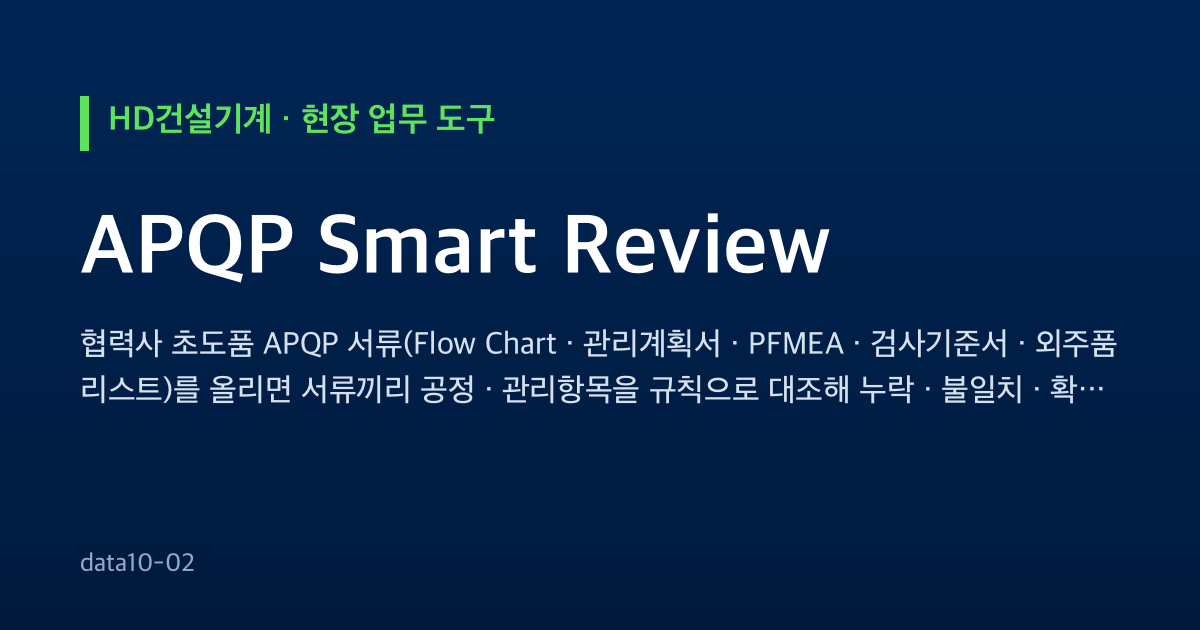
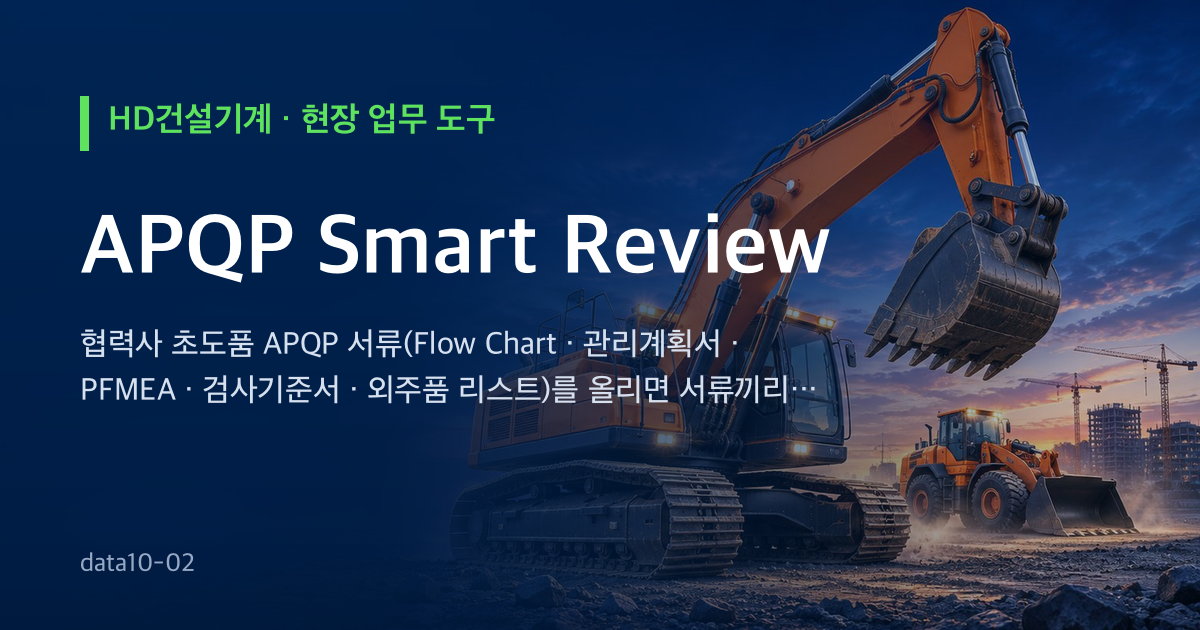
개발 자료 전체 공개 — 개발일지 · 기획서 원문 · 시험 · SQL · 스크립트 · README (수강생 내려받기용)

diff --git a/index.html b/index.html
@@ -12,9 +12,16 @@
   <meta property="og:description" content="협력사 초도품 APQP 서류(Flow Chart · 관리계획서 · PFMEA · 검사기준서 · 외주품 리스트)를 올리면 서류끼리 공정 · 관리항목을 규칙으로 대조해 누락 · 불일치 · 확인 필요 목록과 승인 의견 제안을 내고, 승인 검토 보고서와 재제출 비교까지 만드는">
   <meta property="og:url" content="https://data10-02.jobability.co.kr/">
   <meta property="og:image" content="https://data10-02.jobability.co.kr/og-image.png">
+  <meta property="og:image:secure_url" content="https://data10-02.jobability.co.kr/og-image.png">
+  <meta property="og:image:type" content="image/png">
   <meta property="og:image:width" content="1200">
   <meta property="og:image:height" content="630">
+  <meta property="og:image:alt" content="HD건설기계 · APQP Smart Review">
+  <meta property="og:locale" content="ko_KR">
   <meta name="twitter:card" content="summary_large_image">
+  <meta name="twitter:title" content="HD건설기계 · APQP Smart Review">
+  <meta name="twitter:description" content="협력사 초도품 APQP 서류(Flow Chart · 관리계획서 · PFMEA · 검사기준서 · 외주품 리스트)를 올리면 서류끼리 공정 · 관리항목을 규칙으로 대조해 누락 · 불일치 · 확인 필요 목록과 승인 의견 제안을 내고, 승인 검토 보고서와 재제출 비교까지 만드는">
+  <meta name="twitter:image" content="https://data10-02.jobability.co.kr/og-image.png">
   <!-- /seo-kit -->
   <meta name="description" content="협력사 초도품 APQP 제출서류(Flow Chart·관리계획서·PFMEA·검사기준서·외주품 리스트)를 올려 문서 간 공정·관리항목 정합성을 규칙으로 검증하고, 누락·불일치 목록과 APQP 승인 검토 보고서를 만드는 브라우저 도구">
   <meta name="robots" content="noindex">
@@ -22,8 +29,8 @@
   <link rel="stylesheet" href="css/style.css">
   <!-- auth-kit: 로그인 전에는 도구 화면을 감춘다(js/auth.js 가 판정 뒤 푼다) -->
   <script>document.documentElement.classList.add('auth-lock')</script>
-  <link rel="stylesheet" href="css/auth.css?v=2026-11-11.7">
-  <link rel="stylesheet" href="css/board.css?v=2026-11-11.7">
+  <link rel="stylesheet" href="css/auth.css?v=2026-11-11.8">
+  <link rel="stylesheet" href="css/board.css?v=2026-11-11.8">
   <!-- /auth-kit -->
 </head>
 <body>
@@ -97,10 +104,10 @@
   <script src="js/ai-panel.js"></script>
   <script src="js/app.js"></script>
   <!-- auth-kit: 로그인 · 사용 신청 · 승인(정본 data10-00/kit/auth) -->
-  <script src="vendor/supabase.js?v=2026-11-11.7"></script>
-  <script src="js/auth-config.js?v=2026-11-11.7"></script>
-  <script src="js/board.js?v=2026-11-11.7"></script>
-  <script src="js/auth.js?v=2026-11-11.7"></script>
+  <script src="vendor/supabase.js?v=2026-11-11.8"></script>
+  <script src="js/auth-config.js?v=2026-11-11.8"></script>
+  <script src="js/board.js?v=2026-11-11.8"></script>
+  <script src="js/auth.js?v=2026-11-11.8"></script>
   <!-- /auth-kit -->
 </body>
 </html>

diff --git a/js/auth.js b/js/auth.js
@@ -233,6 +233,12 @@
       box.classList.toggle('hp-sl-light', !!(sl[i] && sl[i].tone === 'light'));   // 밝은 사진이면 글자를 어둡게
     }
     go(0);
+    // slides[].anim(움직이는 그림 gif) — 먼저 가벼운 사진을 보이고, 화면이 뜬 뒤 받아서 바꿔 끼운다(데이터 절약 · 모션 최소화면 건너뜀)
+    var conn = navigator.connection || {};
+    if (!reduce && !conn.saveData) sl.forEach(function (x, k) {
+      if (!x.anim || !track.children[k]) return;
+      setTimeout(function () { var im = new Image(); im.onload = function () { if (document.body.contains(track)) track.children[k].style.backgroundImage = 'url("' + absUrl(x.anim) + '")'; }; im.src = absUrl(x.anim); }, 1500);
+    });
     box.querySelectorAll('[data-sl]').forEach(function (b) {
       b.onclick = function () {
         var v = b.getAttribute('data-sl');

diff --git a/docs/평가보고서/data10-02_평가보고서_2026-11-11.md b/docs/평가보고서/data10-02_평가보고서_2026-11-11.md
@@ -2,7 +2,7 @@
 
 - 과제: APQP Smart Review
 - 요청자: 이준호
-- 점검일: 2026-11-11 (라이브 점검 판 2026-11-11.6, 이 보고서와 함께 올리는 판 2026-11-11.7)
+- 점검일: 2026-11-11 (라이브 점검 판 2026-11-11.6, 이 보고서와 함께 올리는 판 2026-11-11.8)
 - 사이트: https://data10-02.jobability.co.kr/
 - 리포지토리: https://github.com/jungaistar/data10-02
 
@@ -34,7 +34,7 @@
 | 첫 화면 구성 | 충족 | 모양 사진 슬라이드 3장 · 기능 6 · 사용 순서 6 · 실제 화면 있음 |
 | 회사 로고(그림) | 받지 못함 | 로고 파일을 받지 못해 글자 또는 표기 없음 |
 | 기획서 페이지 · 실제 화면 그림 | 충족 | plan.html 200 · screen.png 200 |
-| 공유 미리보기 메타 · 아이콘 | 조치함 | 점검 때 og 메타 · 아이콘이 없어 판 2026-11-11.7 에서 넣음 |
+| 공유 미리보기 메타 · 아이콘 | 조치함 | 점검 때 og 메타 · 아이콘이 없어 넣음 — og:title · description · url · image(1200×630, 첫 화면 사진 바탕) · canonical |
 
 ## 3. 기능과 시험
 
@@ -62,7 +62,7 @@
 | Supabase 설정 파일 | 충족 | auth.sql · board.sql · site.sql · verify.sql |
 | Supabase 연결 안내 | 충족 | supabase/README.md (11단계 · 기대하는 값 · 자주 나는 문제) |
 | 내 깃허브로 옮기기 안내 | 충족 | docs/내_깃허브로_옮기기.md |
-| 기획서(워드) · 개발일지 · 변경 이력 | 충족 | 변경 이력 7건 · 커밋 11개 |
+| 기획서(워드) · 개발일지 · 변경 이력 | 충족 | 변경 이력 8건 · 커밋 12개 |
 | 공개 리포지토리(ZIP 내려받기) | 충족 | github.com/jungaistar/data10-02 |
 | 게시판 · 새 글 알림 · 첫 화면 고르기 | 충족 | 과정용 프로젝트에 SQL 적용 완료(표 · 정책 수 확인) |
 
@@ -80,6 +80,7 @@
 
 ## 6. 변경 이력
 
+- 2026-11-11 점검 · 평가보고서 (판 2026-11-11.7)
 - 2026-11-11 요청 반영 (판 2026-11-11.6)
 - 2026-11-11 슬라이드 사진 (판 2026-11-11.5)
 - 2026-11-11 첫 화면 모양 고르기 (판 2026-11-11.3)

diff --git a/CHANGELOG.md b/CHANGELOG.md
@@ -2,6 +2,11 @@
 
 버전마다 기획서 워드 판을 `docs/기획서/` 에 남긴다(옛 판을 지우지 않는다).
 
+## 2026-11-11 최종 (판 2026-11-11.8)
+
+- 공유 미리보기 그림(og-image.png)을 첫 화면 사진 바탕으로, og · twitter 메타 보강
+- 평가보고서 갱신 `docs/평가보고서/`
+
 ## 2026-11-11 점검 · 평가보고서 (판 2026-11-11.7)
 
 - 16개 사이트 점검 결과와 평가보고서 `docs/평가보고서/`(md · docx)
